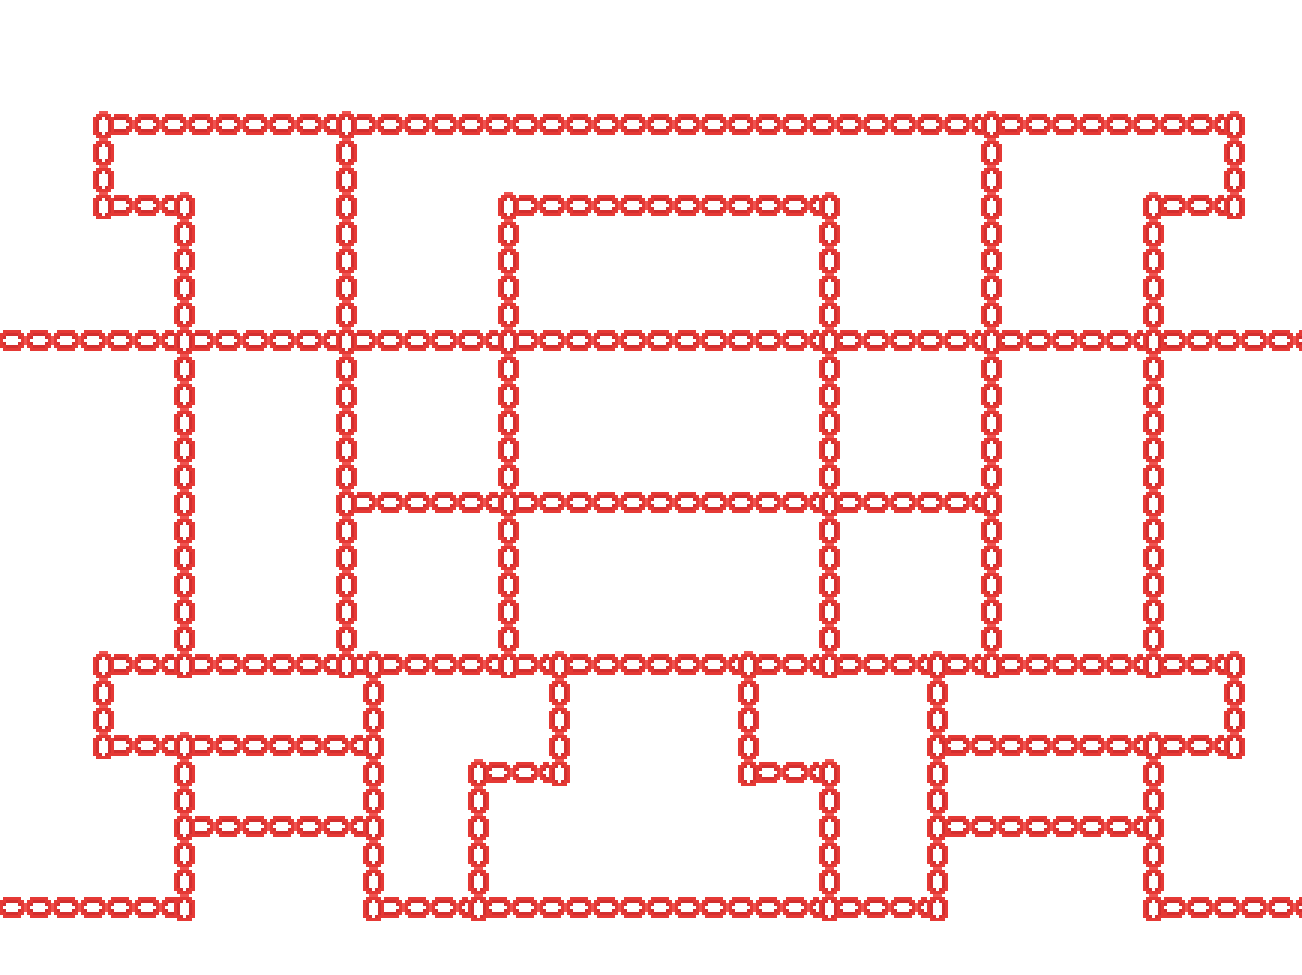
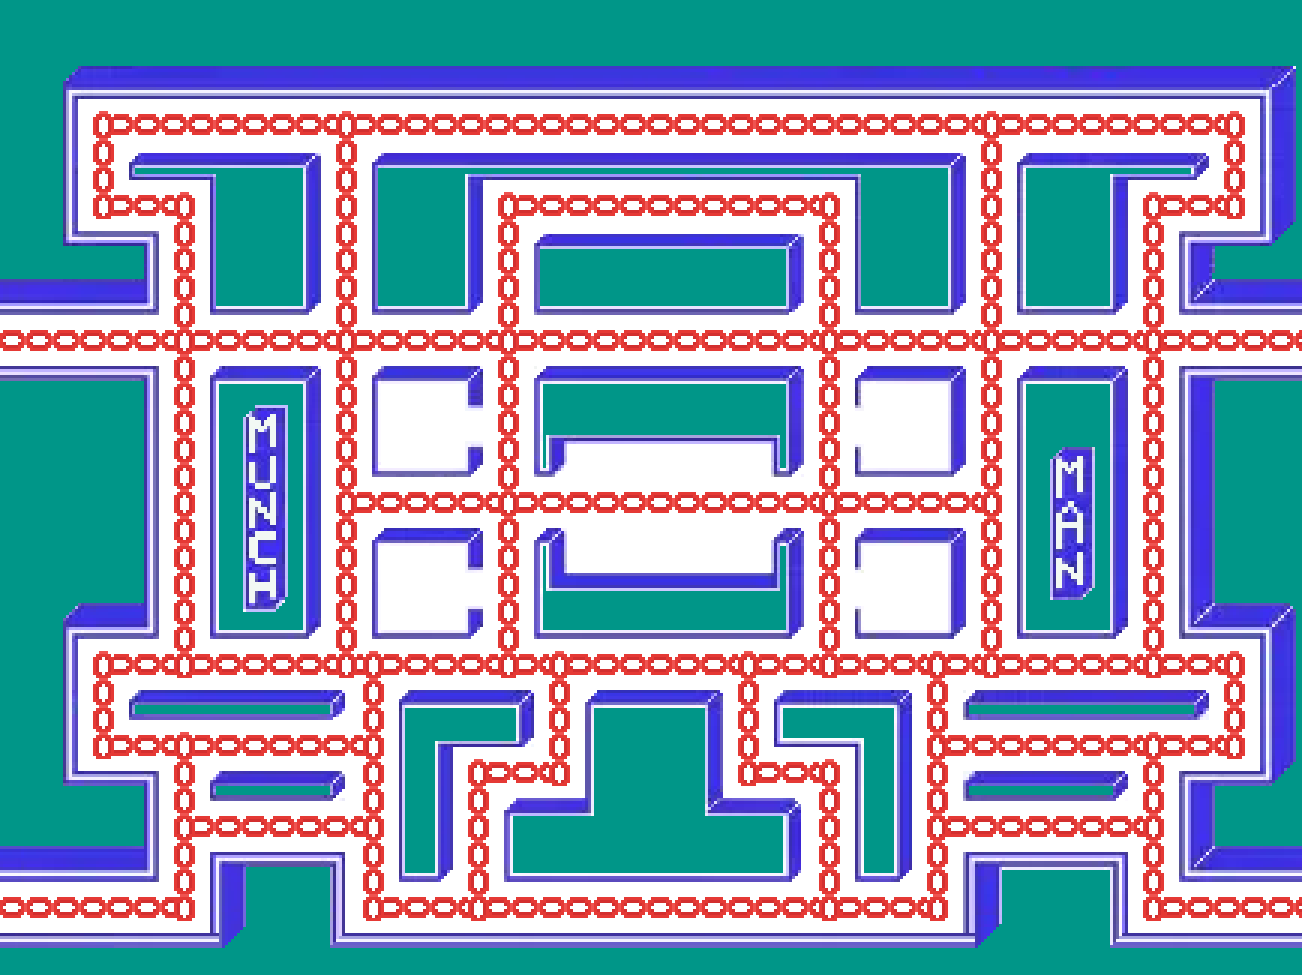
added chain & player direction

diff --git a/mechanics/PlayerMovement.java b/mechanics/PlayerMovement.java
@@ -22,8 +22,6 @@ public class PlayerMovement extends MechanicBase
 
     private int[][] stage_data;
     private int collision_tolerance = 0; 
-    private int turning_tolerance = 25;
-    private boolean player_prev_collided = false;
 
     private int current_delta_x = 0;
     private int current_delta_y = 0;
@@ -34,7 +32,7 @@ public class PlayerMovement extends MechanicBase
     { 
         this.munch_man = munch_man;
         this.stage_data = stage.getStageData();
-        setExecutionalPeriodicDelay(10);
+        setExecutionalPeriodicDelay(20);
         addRequirements(stage, munch_man);
     }   
 
@@ -44,6 +42,27 @@ public class PlayerMovement extends MechanicBase
         prev_delta_y = current_delta_y;
         current_delta_x = delta_x;
         current_delta_y = delta_y;
+    }
+
+    // Updates player direction they are facing. (up/down/left/right)
+    private void updateDirection()
+    {
+        if(current_delta_x > 0 && current_delta_y == 0)
+        {
+            munch_man.setAnimation("munchman_right.png");
+        }
+        else if(current_delta_x < 0 && current_delta_y == 0)
+        {
+            munch_man.setAnimation("munchman_left.png");
+        }
+        else if(current_delta_x == 0 && current_delta_y > 0)
+        {
+            munch_man.setAnimation("munchman_down.png");
+        }
+        else if(current_delta_x == 0 && current_delta_y < 0)
+        {
+            munch_man.setAnimation("munchman_up.png");
+        }
     }
 
     // Rounds to the nearest stage coordinate based on granular stage coordinates. 
@@ -81,7 +100,6 @@ public class PlayerMovement extends MechanicBase
             setTickVelocity(current_delta_x, current_delta_y);
             current_gran_stage_coords.setCoordinates(getGranularStageCoords(current_stage_coords).getX(), 
             current_gran_stage_coords.getY(), 0);
-            System.err.println("1");
         }// Horizontal to vertical turn:
         else if((Math.abs(prev_delta_x) != Math.abs(current_delta_x) || Math.abs(prev_delta_y) != Math.abs(current_delta_y))
         && current_delta_x != 0 && current_delta_y == 0
@@ -102,7 +120,6 @@ public class PlayerMovement extends MechanicBase
         && ((horizontal_collision_diff < collision_tolerance && stage_data[current_stage_coords.getY()][current_stage_coords.getX() - 1] == 0) 
         || (-horizontal_collision_diff < collision_tolerance && stage_data[current_stage_coords.getY()][current_stage_coords.getX() + 1] == 0)))
         {
-            player_prev_collided = true;
             current_gran_stage_coords.setCoordinates(prev_gran_stage_coords.getX(), prev_gran_stage_coords.getY(), 0);
             current_stage_coords.setCoordinates(prev_stage_coords.getX(), prev_stage_coords.getY(), 0);
         }
@@ -110,14 +127,9 @@ public class PlayerMovement extends MechanicBase
         else if(current_stage_coords.getX() == prev_stage_coords.getX()
         && ((vertical_collision_diff < collision_tolerance && stage_data[current_stage_coords.getY() - 1][current_stage_coords.getX()] == 0) 
         || (-vertical_collision_diff < collision_tolerance && stage_data[current_stage_coords.getY() + 1][current_stage_coords.getX()] == 0)))
-        {
-            player_prev_collided = true;
+        {  
             current_gran_stage_coords.setCoordinates(prev_gran_stage_coords.getX(), prev_gran_stage_coords.getY(), 0);
             current_stage_coords.setCoordinates(prev_stage_coords.getX(), prev_stage_coords.getY(), 0);
-        }
-        else
-        {
-            player_prev_collided = false;
         }
     }
     
@@ -132,8 +144,12 @@ public class PlayerMovement extends MechanicBase
     {   
         updateCoords();
         collisionalMovement();
+        
         munch_man.setCoordinates(current_gran_stage_coords.getX() + munch_man.getDisplacementCoords().getX(), 
         current_gran_stage_coords.getY() + munch_man.getDisplacementCoords().getY(), 0);
+        munch_man.setGranularStageCoords(current_gran_stage_coords.getX(), current_gran_stage_coords.getY());
+        
+        updateDirection();
     }
 
     @Override 

diff --git a/fundamentals/animation/Animation.java b/fundamentals/animation/Animation.java
@@ -2,6 +2,8 @@ package fundamentals.animation;
 
 import javax.imageio.ImageIO;
 import javax.swing.ImageIcon;
+import javax.swing.plaf.ColorUIResource;
+import javax.xml.crypto.dsig.keyinfo.RetrievalMethod;
 
 import fundamentals.Constants;
 
@@ -19,6 +21,8 @@ import java.awt.*;
 public class Animation 
 {
     private final String file_name;
+    private final BufferedImage original_image;
+    private BufferedImage image = null;
     private BufferedImage parent_image = null;
 
     private int img_x0 = 0; 
@@ -39,6 +43,8 @@ public class Animation
     public Animation(String file_name)
     {
         this.file_name = file_name;
+        image = getBufferedImage();
+        original_image = image;
     }
 
     public Animation(int img_x0, int img_y0, int img_x1, int img_y1, Animation parent_animation)
@@ -49,18 +55,13 @@ public class Animation
         this.img_x1 = img_x1;
         this.img_y1 = img_y1;
         parent_image = parent_animation.getBufferedImage();
+        image = parent_image.getSubimage(img_x0, img_y0, Math.abs(img_x1 - img_x0), Math.abs(img_y1 - img_y0));
+        original_image = image;
     }
 
     public Image getAnimation()
     {
-        if(file_name != "")
-        {
-            return new ImageIcon(getClass().getResource("/" + Constants.FILE_ROOT_DIRECTORIES.IMAGE_ROOT_DIRECTORY + file_name)).getImage();
-        }
-        else
-        {
-            return parent_image.getSubimage(img_x0, img_y0, Math.abs(img_x1 - img_x0), Math.abs(img_y1 - img_y0)); 
-        }
+        return image; 
     }
 
     /**
@@ -92,6 +93,57 @@ public class Animation
         {
             System.err.println("Animation.java: IOExeception caught!");
             return null;
+        }
+    }
+
+    /**
+     * Sets the RGB color values for a given section of the Animation/image. (img_x0, img_y0) is the initial coord, (img_x1, img_y1)
+     * is the final coord, where the section of the Animation that is changed is whatever is captured by the rectangular bounds made
+     * by the initial/final coords; intial coord comes first at the top left coord, and the final coord comes second as the bottom left
+     * coord of the bounding rectangle. 
+     * 
+     * @see Note: Setting RGB values will override the initial Animtation/image's color(s), or RGB values for the given section of 
+     * the Animation; these changes can be removed by resetting the Animation by calling the reset() method. 
+     */
+    public void setRGB(int img_x0, int img_y0, int img_x1, int img_y1, int red_val, int green_val, int blue_val, int alpha)
+    {
+        int color = new Color(red_val, green_val, blue_val, alpha).getRGB();
+        for(int y = img_y0; y < img_y1; y++)
+        {
+            for(int x = img_x0; x < img_x1; x++)
+            {
+                image.setRGB(x, y, color);
+            }
+        }
+    }
+
+    public void setAlpha(int img_x0, int img_y0, int img_x1, int img_y1, int alpha)
+    {
+        BufferedImage image = this.image;
+
+        for(int y = img_y0; y < img_y1; y++)
+        {
+            for(int x = img_x0; x < img_x1; x++)
+            {
+                Color color = new Color(image.getRGB(x, y)); 
+                this.image.setRGB(x, y, (new Color(color.getRed(), color.getBlue(), color.getGreen(), alpha)).getRGB());
+            }
+        }
+    }
+
+    /**
+     * Resets the Animation/image to its original state; if changes were made to the Animation by calling methods such as, 
+     * setRGB(...), these changes will be removed from the Animation. 
+     */
+    public void reset()
+    {
+        if(file_name != "")
+        {
+            image = getBufferedImage();
+        }
+        else
+        {
+            image = parent_image.getSubimage(img_x0, img_y0, Math.abs(img_x1 - img_x0), Math.abs(img_y1 - img_y0));
         }
     }
 

diff --git a/components/StageChain.java b/components/StageChain.java
@@ -1,14 +1,38 @@
 package components;
 
+import fundamentals.Constants;
+import fundamentals.Coordinates;
 import fundamentals.animation.Animation;
 import fundamentals.component.ComponentBase;
 
 public class StageChain extends ComponentBase
 {
     private Animation stage_chain = new Animation("chain.png");
+    private int[][] stage_chain_data = Constants.STAGE_CHARACTERISTICS.STAGE_DATA.clone();
+    private int coord_update_tolerance = 15; 
+    private final int CHAIN_ID = 2; 
 
     public StageChain() 
+    {   
+        stage_chain.setAlpha(0, 0, stage_chain.getImageWidth(), stage_chain.getImageHeight(), 0);
+        addRequirements((stage_chain.getImageWidth() / 2) + Constants.STAGE_CHARACTERISTICS.COORD_DISPLACEMENT.getX(), 
+        (stage_chain.getImageHeight() / 2) + Constants.STAGE_CHARACTERISTICS.COORD_DISPLACEMENT.getY(), 0, stage_chain);
+    }
+
+    public void logChainPlacement(int stage_x, int stage_y)
     {
-        addRequirements((stage_chain.getImageWidth() / 2) - 50, stage_chain.getImageHeight() / 2, 0, stage_chain);
+        if(stage_x < stage_chain_data[0].length && stage_y < stage_chain_data.length)
+        {
+            stage_chain_data[stage_y][stage_x] = CHAIN_ID;
+        }
+    }
+
+    public void update(int raw_x, int raw_y)
+    {
+        stage_chain.setAlpha(raw_x - coord_update_tolerance - Constants.STAGE_CHARACTERISTICS.COORD_DISPLACEMENT.getX(), 
+        raw_y - coord_update_tolerance - Constants.STAGE_CHARACTERISTICS.COORD_DISPLACEMENT.getY(), 
+        raw_x + coord_update_tolerance - Constants.STAGE_CHARACTERISTICS.COORD_DISPLACEMENT.getX(), 
+        raw_y + coord_update_tolerance - Constants.STAGE_CHARACTERISTICS.COORD_DISPLACEMENT.getY(),
+        255);        
     }
 }

diff --git a/AppContainer.java b/AppContainer.java
@@ -1,5 +1,6 @@
 import fundamentals.appbase.AppBase;
 import fundamentals.mechanic.InstantMechanic;
+import mechanics.PlaceStageChain;
 import mechanics.PlayerMovement;
 import fundamentals.Constants;
 import fundamentals.UI.*;
@@ -18,16 +19,18 @@ public class AppContainer extends AppBase
     private MunchMan munch_man = new MunchMan();
 
     private PlayerMovement player_movement = new PlayerMovement(stage, munch_man);
+    private PlaceStageChain place_stage_chain = new PlaceStageChain(munch_man, stage, stage_chain);
 
     private void configureButtonBindings() {
-        controller.whenLeftPressed(new InstantMechanic(()->{ player_movement.setTickVelocity(-3, 0); }));
-        controller.whenRightPressed(new InstantMechanic(()->{ player_movement.setTickVelocity(3, 0); }));
-        controller.whenUpPressed(new InstantMechanic(()->{ player_movement.setTickVelocity(0, -3); }));
-        controller.whenDownPressed(new InstantMechanic(()->{ player_movement.setTickVelocity(0, 3); }));
+        controller.whenLeftPressed(new InstantMechanic(()->{ player_movement.setTickVelocity(-6, 0); }));
+        controller.whenRightPressed(new InstantMechanic(()->{ player_movement.setTickVelocity(6, 0); }));
+        controller.whenUpPressed(new InstantMechanic(()->{ player_movement.setTickVelocity(0, -6); }));
+        controller.whenDownPressed(new InstantMechanic(()->{ player_movement.setTickVelocity(0, 6); }));
     }
 
     public AppContainer() {
         configureButtonBindings();
         player_movement.schedule();
+        place_stage_chain.schedule();
     }
 }

diff --git a/components/MunchMan.java b/components/MunchMan.java
@@ -7,13 +7,15 @@ import fundamentals.component.ComponentBase;
 
 public class MunchMan extends ComponentBase 
 {
-    private Animation munch_man = new Animation("munchman.png");
+    private Animation[] munch_man = {new Animation("munchman_right.png"), new Animation("munchman_left.png"),
+    new Animation("munchman_up.png"), new Animation("munchman_down.png")};
     // Player coordinates in terms of the stage:  
     private Coordinates stage_coords = new Coordinates(1, 1, 0);
     private Coordinates granular_stage_coords = new Coordinates(stage_coords.getX() * Constants.STAGE_CHARACTERISTICS.STAGE_COORD_SCALER,
     stage_coords.getY() * Constants.STAGE_CHARACTERISTICS.STAGE_COORD_SCALER, 0);
     // Player coordinate displacement on-screen; used to determine the player's coords at stage coords: (0, 0) on screen:
-    private Coordinates displacement_coords = new Coordinates(24, 96, 0);
+    private Coordinates displacement_coords = new Coordinates(Constants.STAGE_CHARACTERISTICS.COORD_DISPLACEMENT.getX() + 74, 
+    Constants.STAGE_CHARACTERISTICS.COORD_DISPLACEMENT.getY() + 96, 0);
     
     public MunchMan() 
     {

diff --git a/mechanics/PlaceStageChain.java b/mechanics/PlaceStageChain.java
@@ -1,0 +1,50 @@
+package mechanics;
+
+import components.MunchMan;
+import components.Stage;
+import components.StageChain;
+import fundamentals.Coordinates;
+import fundamentals.animation.Animation;
+import fundamentals.mechanic.MechanicBase;
+
+public class PlaceStageChain extends MechanicBase
+{
+    private MunchMan munch_man = null;
+    private Stage stage = null;
+    private StageChain stage_chain = null;
+
+    public PlaceStageChain(MunchMan munch_man, Stage stage, StageChain stage_chain)
+    {
+        this.munch_man = munch_man;
+        this.stage = stage;
+        this.stage_chain = stage_chain;
+
+        setExecutionalPeriodicDelay(0);
+        addRequirements(munch_man, stage, stage_chain);
+    }
+
+    @Override
+    public void initialize()
+    {
+
+    }
+
+    @Override
+    public void execute()
+    {   
+        stage_chain.update(munch_man.getCoordinates().getX(), munch_man.getCoordinates().getY());
+        
+    }
+
+    @Override
+    public void end(boolean interrupted)
+    {
+
+    }
+
+    @Override
+    public boolean isFinished()
+    {
+        return false;
+    }
+}

diff --git a/fundamentals/component/ComponentBase.java b/fundamentals/component/ComponentBase.java
@@ -67,6 +67,21 @@ public class ComponentBase
     }
 
     /**
+     * Sets the current Animation to the Animation passed in. This Animation is recognized as a foreign instance that is not
+     * stored within an internal list class member. This external Animation is not instantiated by the component itself, and is
+     * not kept track of; unlike internal Animations passed into a component's addRequirments(...).
+     * 
+     * @param animation - The external Animation passed in.
+     * 
+     * @see Note: This method is useful when a temporary, and dispensable, visual representation of a component is needed, 
+     * where this representation/Animation may be deduced from means that are external to the component in question. 
+     */
+    public void setExternalAnimation(Animation animation)
+    {
+        current_animation = animation;
+    }
+
+    /**
      * Used to set the component's opacity when on-screen. Opacity is how "solid" or visible the image is. The oppisite 
      * of transparency.  
      * 

diff --git a/components/Stage.java b/components/Stage.java
@@ -7,11 +7,12 @@ import fundamentals.component.*;
 public class Stage extends ComponentBase {
     
     private Animation stage = new Animation("stage.png");
-    private int[][] stage_data = Constants.STAGE_CHARACTERISTICS.STAGE_DATA;
+    private int[][] stage_data = Constants.STAGE_CHARACTERISTICS.STAGE_DATA.clone();
 
     public Stage()
     {
-        addRequirements((stage.getImageWidth() / 2) - 50, stage.getImageHeight() / 2, 0, stage);
+        addRequirements((stage.getImageWidth() / 2) + Constants.STAGE_CHARACTERISTICS.COORD_DISPLACEMENT.getX(), 
+        (stage.getImageHeight() / 2) + Constants.STAGE_CHARACTERISTICS.COORD_DISPLACEMENT.getY(), 0, stage);
     }
 
     public int[][] getStageData() 

diff --git a/fundamentals/Constants.java b/fundamentals/Constants.java
@@ -38,6 +38,7 @@ public class Constants
     public static final class STAGE_CHARACTERISTICS
     {
         public static final int STAGE_COORD_SCALER = 27;
+        public static final Coordinates COORD_DISPLACEMENT = new Coordinates(-50, 0, 0);
 
         public static final int[][] STAGE_DATA = 
         {
